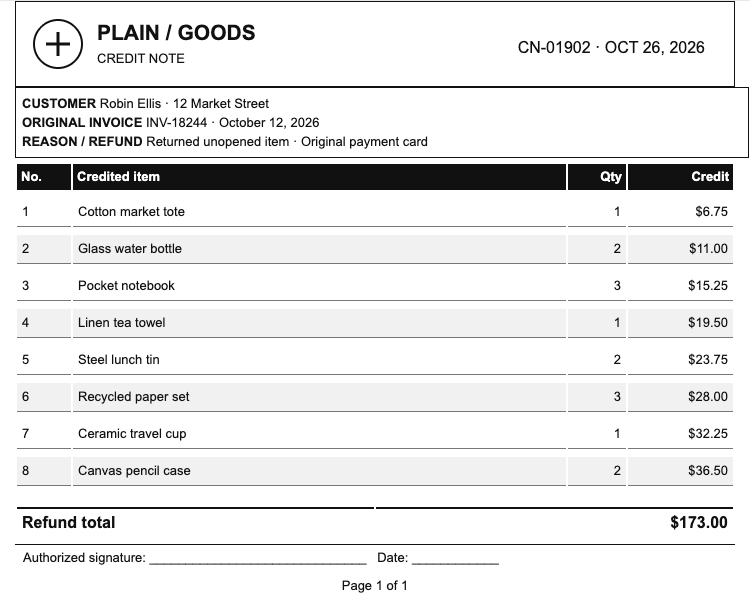
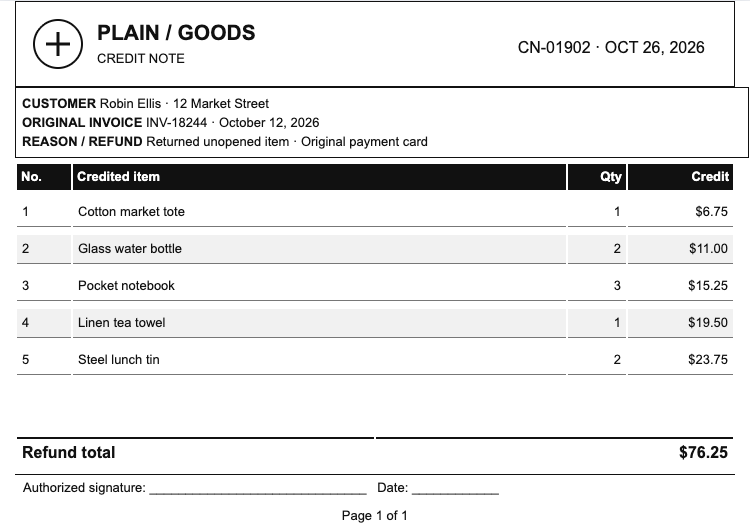
feat(gallery): true A5 landscape ratio (750x530) for A5 forms; Gallery card first on home page
- A5 designs use 750x530 (210:148) so print on A5 needs no scaling; row counts adjusted
- official receipt totals spacing and waybill QR spacing fixed
- PrintForm Gallery card is now the first card on the home page

Changed region(s): [[0.0, 0.0, 1.0, 0.9944]]

diff --git a/index.html b/index.html
@@ -263,6 +263,12 @@
         <section class="section">
             <h2 class="section-title" data-i18n="section.featured">Featured Demos</h2>
             <div class="grid grid-featured">
+                <a href="gallery/index.html" class="card">
+                    <span class="card-badge new" data-i18n="gallery.badge">Gallery</span>
+                    <h3 class="card-title" data-i18n="gallery.title">PrintForm Gallery</h3>
+                    <p class="card-desc" data-i18n="gallery.description">Browse print-ready business forms with live pagination previews.</p>
+                    <span class="card-link" data-i18n="gallery.open">Explore Gallery</span>
+                </a>
                 <a href="demo001.html" class="card">
                     <span class="card-badge" data-i18n="badge.featured">Featured</span>
                     <h3 class="card-title" data-i18n="demo001.title">Sales Invoice</h3>
@@ -303,12 +309,6 @@
                     <p class="card-desc" data-i18n="subtotal.description">Test page for prowitem_subtotal feature with
                         automatic dummy row filling before subtotal rows.</p>
                     <span class="card-link" data-i18n="button.view">View Demo</span>
-                </a>
-                <a href="gallery/index.html" class="card">
-                    <span class="card-badge new" data-i18n="gallery.badge">Gallery</span>
-                    <h3 class="card-title" data-i18n="gallery.title">PrintForm Gallery</h3>
-                    <p class="card-desc" data-i18n="gallery.description">Browse print-ready business forms with live pagination previews.</p>
-                    <span class="card-link" data-i18n="gallery.open">Explore Gallery</span>
                 </a>
             </div>
         </section>

diff --git a/gallery/designs/thermal-pos-receipt.html b/gallery/designs/thermal-pos-receipt.html
@@ -82,7 +82,7 @@
     <div
       class="paper_width printform"
       data-papersize-width="750"
-      data-papersize-height="600"
+      data-papersize-height="530"
       data-repeat-header="y"
       data-repeat-rowheader="y"
       data-repeat-footer-pagenum="y"
@@ -202,7 +202,7 @@
                 </tr>
               </table>
               <div style="text-align: center; border-top: 1px dotted #687a61; padding: 5px">
-                <img src="assets/barcode-sample.svg" alt="Sample barcode, not scannable" height="28" />
+                <img src="assets/barcode-sample.svg" alt="Sample barcode, not scannable" height="20" />
               </div>
             </div>
           </td>
@@ -214,7 +214,6 @@
           ["Tea tin", 2, 12],
           ["Mug", 1, 18],
           ["Canvas bag", 1, 22],
-          ["Notebook", 3, 6],
         ];
         const target = document.getElementById("rows");
         let subtotal = 0;

diff --git a/gallery/designs/mono-credit-receipt.html b/gallery/designs/mono-credit-receipt.html
@@ -29,7 +29,7 @@
 </head>
 <body data-pf-label="PF-006 · Mono Credit Receipt · Monochrome">
   <div class="paper_width printform"
-    data-papersize-width="750" data-papersize-height="600"
+    data-papersize-width="750" data-papersize-height="530"
     data-repeat-header="y" data-repeat-rowheader="y" data-repeat-footer-pagenum="y">
     <table cellpadding="0" cellspacing="0" border="0" class="paper_width section-table pheader">
       <tr><td style="width:15px"></td><td style="width:inherit"></td><td style="width:15px"></td></tr>
@@ -100,7 +100,7 @@
       const target = document.getElementById("credit-items");
       let totalCents = 0;
 
-      for (let index = 0; index < 8; index += 1) {
+      for (let index = 0; index < 5; index += 1) {
         const quantity = index % 3 + 1;
         const amountCents = 675 + index * 425;
         totalCents += amountCents;

diff --git a/gallery/designs/delivery-note.html b/gallery/designs/delivery-note.html
@@ -32,7 +32,7 @@
 </head>
 <body data-pf-label="PF-003 · Fieldway Delivery Note · Teal">
   <div class="paper_width printform"
-    data-papersize-width="750" data-papersize-height="600"
+    data-papersize-width="750" data-papersize-height="530"
     data-repeat-header="y" data-repeat-rowheader="y" data-repeat-footer-pagenum="y">
     <table cellpadding="0" cellspacing="0" border="0" class="paper_width section-table pheader">
       <tr>
@@ -138,7 +138,7 @@
       ];
       const target = document.getElementById("delivery-items");
 
-      for (let index = 0; index < 14; index += 1) {
+      for (let index = 0; index < 11; index += 1) {
         const delivered = index % 5 + 2;
         const cells = [
           `FW-${420 + index}`,

diff --git a/gallery/designs/official-payment-receipt.html b/gallery/designs/official-payment-receipt.html
@@ -89,7 +89,7 @@
     <div
       class="paper_width printform"
       data-papersize-width="750"
-      data-papersize-height="600"
+      data-papersize-height="530"
       data-repeat-header="y"
       data-repeat-rowheader="y"
       data-repeat-footer-pagenum="y"
@@ -201,7 +201,7 @@
               <table class="totals-grid" style="flex: 1">
                 <tr class="grand-total">
                   <td>Total received</td>
-                  <td id="received" align="right">$0.00</td>
+                  <td id="received" align="right" style="padding-right: 24px">$0.00</td>
                   <td>Outstanding</td>
                   <td id="balance" align="right">$0.00</td>
                 </tr>

diff --git a/gallery/designs/parcel-shipping-waybill.html b/gallery/designs/parcel-shipping-waybill.html
@@ -78,7 +78,7 @@
     <div
       class="paper_width printform"
       data-papersize-width="750"
-      data-papersize-height="600"
+      data-papersize-height="530"
       data-repeat-header="y"
       data-repeat-rowheader="y"
       data-repeat-footer-pagenum="y"
@@ -138,7 +138,7 @@
             </div>
             <img src="assets/barcode-sample.svg" alt="Sample tracking barcode" class="barcode" />
             <img src="assets/qr-generic-sample.svg" alt="Decorative sample QR code, not scannable" width="68" height="68" />
-            <div>Scan to track (sample)</div>
+            <div style="margin-bottom: 8px">Scan to track (sample)</div>
           </td>
           <td></td>
         </tr>

diff --git a/gallery/designs/customer-order-confirmation.html b/gallery/designs/customer-order-confirmation.html
@@ -97,7 +97,7 @@
     <div
       class="paper_width printform"
       data-papersize-width="750"
-      data-papersize-height="600"
+      data-papersize-height="530"
       data-repeat-header="y"
       data-repeat-rowheader="y"
       data-repeat-footer-pagenum="y"
@@ -210,7 +210,7 @@
         const target = document.getElementById("confirmation-rows");
         let cents = 0;
         const fmt = (value) => `$${(value / 100).toFixed(2)}`;
-        for (let index = 0; index < 11; index += 1) {
+        for (let index = 0; index < 7; index += 1) {
           const qty = (index % 2) + 1;
           const unit = 1800 + index * 350;
           const amount = qty * unit;

diff --git a/gallery/designs/orange-work-order.html b/gallery/designs/orange-work-order.html
@@ -26,7 +26,7 @@
   </style>
 </head>
 <body data-pf-label="PF-010 · Cinder Service Work Order · Orange">
-  <div class="paper_width printform" data-papersize-width="750" data-papersize-height="600"
+  <div class="paper_width printform" data-papersize-width="750" data-papersize-height="530"
     data-repeat-header="y" data-repeat-rowheader="y" data-repeat-footer-pagenum="y">
     <table cellpadding="0" cellspacing="0" border="0" class="paper_width section-table pheader">
       <tr><td style="width:15px"></td><td style="width:inherit"></td><td style="width:15px"></td></tr>

diff --git a/gallery/designs/cash-collection-receipt.html b/gallery/designs/cash-collection-receipt.html
@@ -83,7 +83,7 @@
     <div
       class="paper_width printform"
       data-papersize-width="750"
-      data-papersize-height="600"
+      data-papersize-height="530"
       data-repeat-header="y"
       data-repeat-rowheader="y"
       data-repeat-footer-pagenum="y"

diff --git a/gallery/designs/crm-customer-profile.html b/gallery/designs/crm-customer-profile.html
@@ -67,7 +67,7 @@
     <div
       class="paper_width printform"
       data-papersize-width="750"
-      data-papersize-height="600"
+      data-papersize-height="530"
       data-repeat-header="y"
       data-repeat-rowheader="y"
       data-repeat-footer-pagenum="y"

diff --git a/gallery/designs/customer-refund-slip.html b/gallery/designs/customer-refund-slip.html
@@ -82,7 +82,7 @@
     <div
       class="paper_width printform"
       data-papersize-width="750"
-      data-papersize-height="600"
+      data-papersize-height="530"
       data-repeat-header="y"
       data-repeat-rowheader="y"
       data-repeat-footer-pagenum="y"

diff --git a/gallery/designs/employee-monthly-payslip.html b/gallery/designs/employee-monthly-payslip.html
@@ -68,7 +68,7 @@
     <div
       class="paper_width printform"
       data-papersize-width="750"
-      data-papersize-height="600"
+      data-papersize-height="530"
       data-repeat-header="y"
       data-repeat-rowheader="y"
       data-repeat-footer-pagenum="y"
